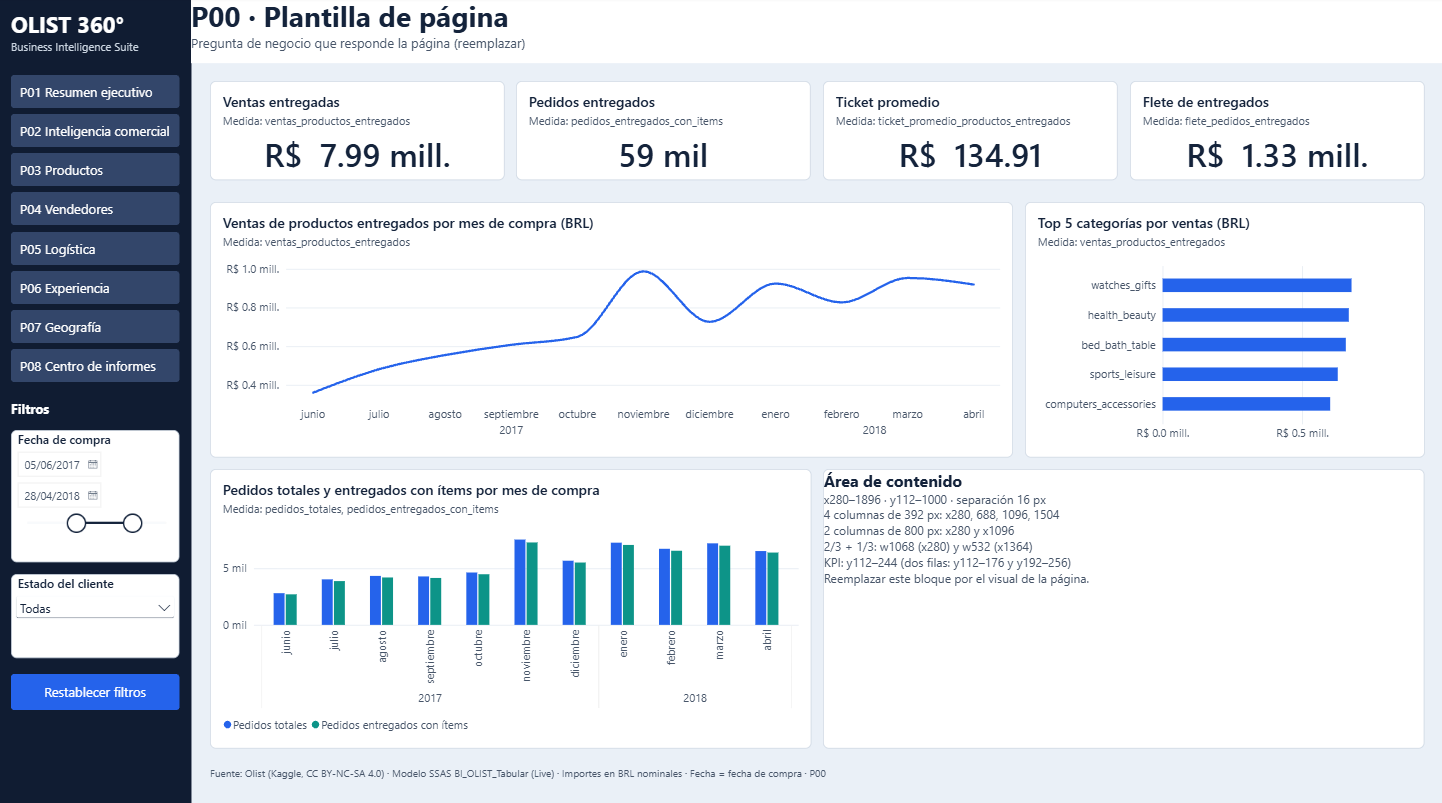
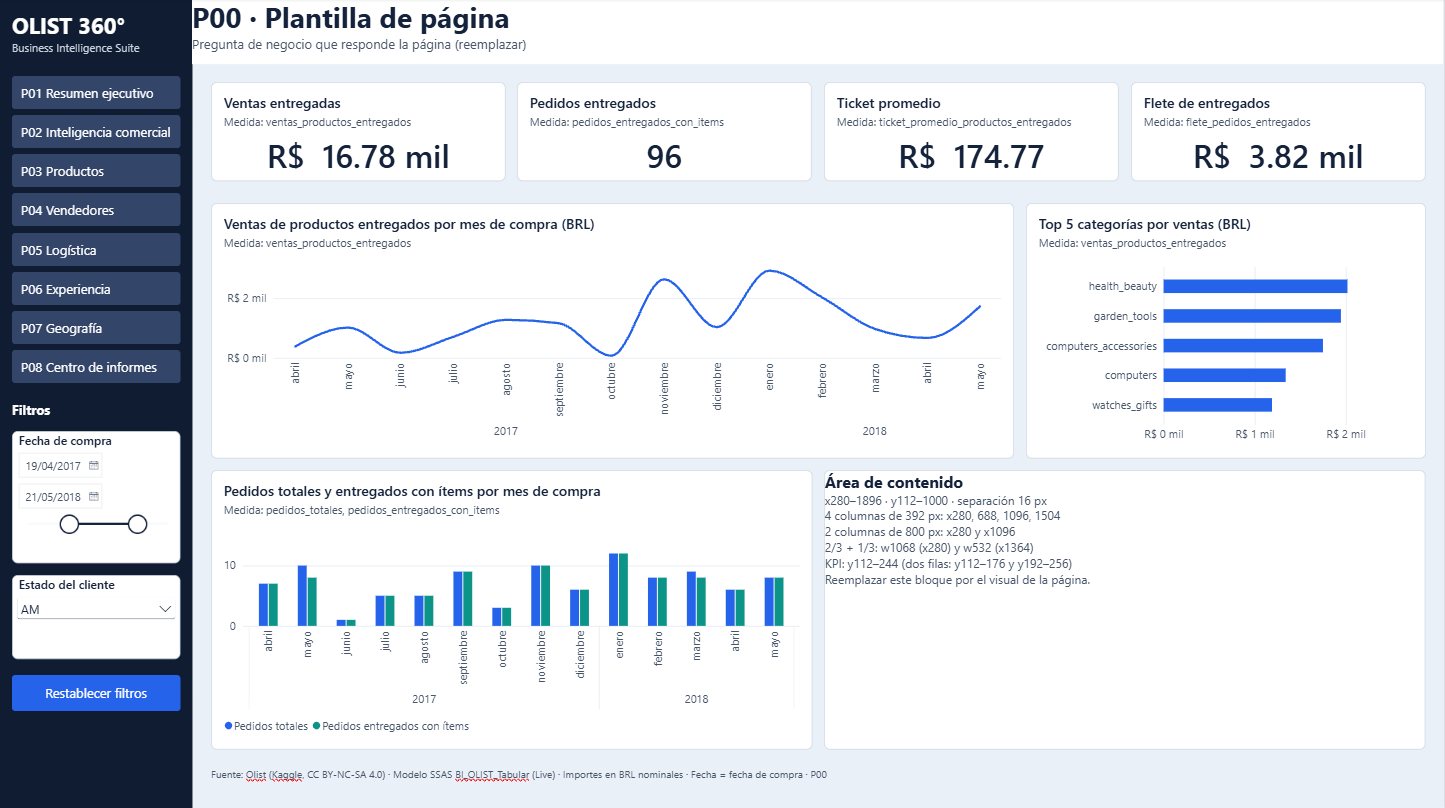
Completa la prueba de restablecer filtros con fecha y estado (A01)

diff --git a/powerbi/evidencias/nivel-2/A01.md b/powerbi/evidencias/nivel-2/A01.md
@@ -15,22 +15,24 @@ Windows 11 Pro; Power BI Desktop 2.159.1231.0 (Microsoft Store); SSAS Tabular 17
 | [A01-tema-importado.png](A01-tema-importado.png) | 20:06:44 | Tema registrado en el informe | `PASS`: *Nombre del tema personalizado* = **OLIST 360** sobre el tema base *Clásico 2026*. Desktop ofrece actualizar el tema base; no se aplicó para no introducir cambios no revisados. |
 | [A01-P00-plantilla.png](A01-P00-plantilla.png) | 20:45:34 | Página `P00 · Plantilla` sin filtros, con el menú corregido | `PASS`: las ocho opciones del menú se leen completas, sin truncar. Menú, panel de filtros, cabecera, pie, 4 KPI y 3 visuales están dentro de la retícula. Los KPI coinciden con el escenario `total` del cotejo: R$ 13,22 M; 96 mil; R$ 137,04; R$ 2,20 M. |
 | [A01-guia-reticula.png](A01-guia-reticula.png) | 20:47:21 | Página `Guía de retícula` con el menú corregido | `PASS`: zonas KPI (x280/688/1096/1504, w392), 2/3 + 1/3 (w1068/w532) y 1/2 (w800) sin solapamientos. |
-| [A01-restablecer-antes.png](A01-restablecer-antes.png) | 20:44:37 | Fecha de compra del 05/06/2017 al 28/04/2018; estado del cliente en *Todas* | `PASS`: los KPI responden al filtro y coinciden con SQL (tabla siguiente). |
-| [A01-restablecer-despues.png](A01-restablecer-despues.png) | 20:45:34 | Ctrl+clic en *Restablecer filtros* | `PASS` para la fecha: vuelve al rango completo 04/09/2016–12/11/2018 y los KPI vuelven al total R$ 13,22 M; 96 mil; R$ 137,04; R$ 2,20 M. Es la misma captura que `A01-P00-plantilla.png`. |
+| [A01-restablecer-antes.png](A01-restablecer-antes.png) | 20:54:33 | Fecha de compra del 19/04/2017 al 21/05/2018 y estado del cliente **AM** | `PASS`: los KPI responden a los dos filtros y coinciden con SQL (tabla siguiente). |
+| [A01-restablecer-despues.png](A01-restablecer-despues.png) | 20:57:07 | Ctrl+clic en *Restablecer filtros* desde el estado anterior | `PASS`: la fecha vuelve al rango completo 04/09/2016–12/11/2018, el estado vuelve a *Todas* y los KPI vuelven al total R$ 13,22 M; 96 mil; R$ 137,04; R$ 2,20 M. |
 | [A01-1366x768.png](A01-1366x768.png) | 20:09:54 | Ventana reducida, zoom 44 % | Observación: *Conexión dinámica: conectada*. Títulos, KPI y menú son legibles, pero el pie y los subtítulos quedan en el límite (ver OBS-3). |
 
 ### Conciliación del filtro de fecha
 
-Consulta con `sqlcmd` contra `BI_OLIST.dw` con el mismo filtro de `A01-restablecer-antes.png` (`DimFecha.fecha` entre 2017-06-05 y 2018-04-28, líneas `delivered`):
+Consulta con `sqlcmd` contra `BI_OLIST.dw` con los mismos filtros de `A01-restablecer-antes.png`: `DimFecha.fecha` entre 2017-04-19 y 2018-05-21, `DimGeografiaCliente.customer_state = 'AM'` y líneas `delivered`.
 
 | Medida | SQL | Tarjeta Power BI |
 |---|---:|---:|
-| `ventas_productos_entregados` | 7.989.273,97 | R$ 7.99 mill. |
-| `pedidos_entregados_con_items` | 59.219 | 59 mil |
-| `ticket_promedio_productos_entregados` | 134,910653 | R$ 134.91 |
-| `flete_pedidos_entregados` | 1.325.175,03 | R$ 1.33 mill. |
+| `ventas_productos_entregados` | 16.777,47 | R$ 16.78 mil |
+| `pedidos_entregados_con_items` | 96 | 96 |
+| `ticket_promedio_productos_entregados` | 174,765312 | R$ 174.77 |
+| `flete_pedidos_entregados` | 3.820,16 | R$ 3.82 mil |
 
-En la primera ronda de capturas, ya reemplazada, también se concilió el rango del 27/03/2017 al 28/04/2018: R$ 8.939.030,31; 65.917; R$ 135,61 y R$ 1.470.351,68.
+Las rondas de capturas previas, ya reemplazadas, también se conciliaron solo con fecha:
+- Del 27/03/2017 al 28/04/2018: R$ 8.939.030,31; 65.917; R$ 135,61; R$ 1.470.351,68.
+- Del 05/06/2017 al 28/04/2018: R$ 7.989.273,97; 59.219; R$ 134,91; R$ 1.325.175,03.
 
 ## Validaciones
 
@@ -42,7 +44,7 @@ En la primera ronda de capturas, ya reemplazada, también se concilió el rango 
 ## Observaciones para C02
 
 - **OBS-1 · Etiquetas del menú truncadas. Resuelta.** Por indicación de la revisión del PR #19 se cambiaron a *P03 Productos*, *P04 Vendedores*, *P06 Experiencia* y *P07 Geografía* en las dos páginas. Las ocho opciones se leen completas.
-- **OBS-2 · Botón *Restablecer filtros*. Parcial.** Está comprobado con el filtro de fecha: el botón devuelve el rango completo y los KPI al total. La captura previa tiene el estado del cliente en *Todas*, así que no evidencia el restablecimiento de ese segmentador. Falta repetir la prueba con fecha y estado (por ejemplo SP) seleccionados.
+- **OBS-2 · Botón *Restablecer filtros*. Resuelta.** Con fecha y estado AM seleccionados, el botón devuelve los dos segmentadores al estado esperado: rango completo y *Todas*. Los KPI vuelven al total. No hubo que corregir la acción.
 - **OBS-3 · Legibilidad reducida.** La captura a 1366×768 se tomó con la ventana de Desktop reducida, no con una pantalla de esa resolución. El pie (10 pt) y los subtítulos (11 pt) quedan pequeños. Si en el proyector resultan ilegibles, la guía 02 pide aumentarlos.
 - **OBS-4 · Segmentador de estado.** Deja espacio vacío bajo la lista desplegable. Se puede reducir de 112 a unos 72 px si se aprueba.
 - **Decisiones pendientes**, detalladas en [la guía](../../diseno/README.md):

diff --git a/powerbi/diseno/README.md b/powerbi/diseno/README.md
@@ -76,5 +76,4 @@ Tipografía Segoe UI: valores KPI de 32 pt, títulos de visual de 14 pt y etique
 
 ## Pendiente
 
-- **Restablecer filtros con un estado seleccionado.** Comprobado con un rango de fechas: las fechas vuelven al rango completo y los KPI al total. Falta la captura con un estado del cliente seleccionado antes de pulsar el botón.
 - **Legibilidad en una pantalla real de 1366×768 o en el proyector.** La captura disponible es de una ventana de Desktop reducida.
